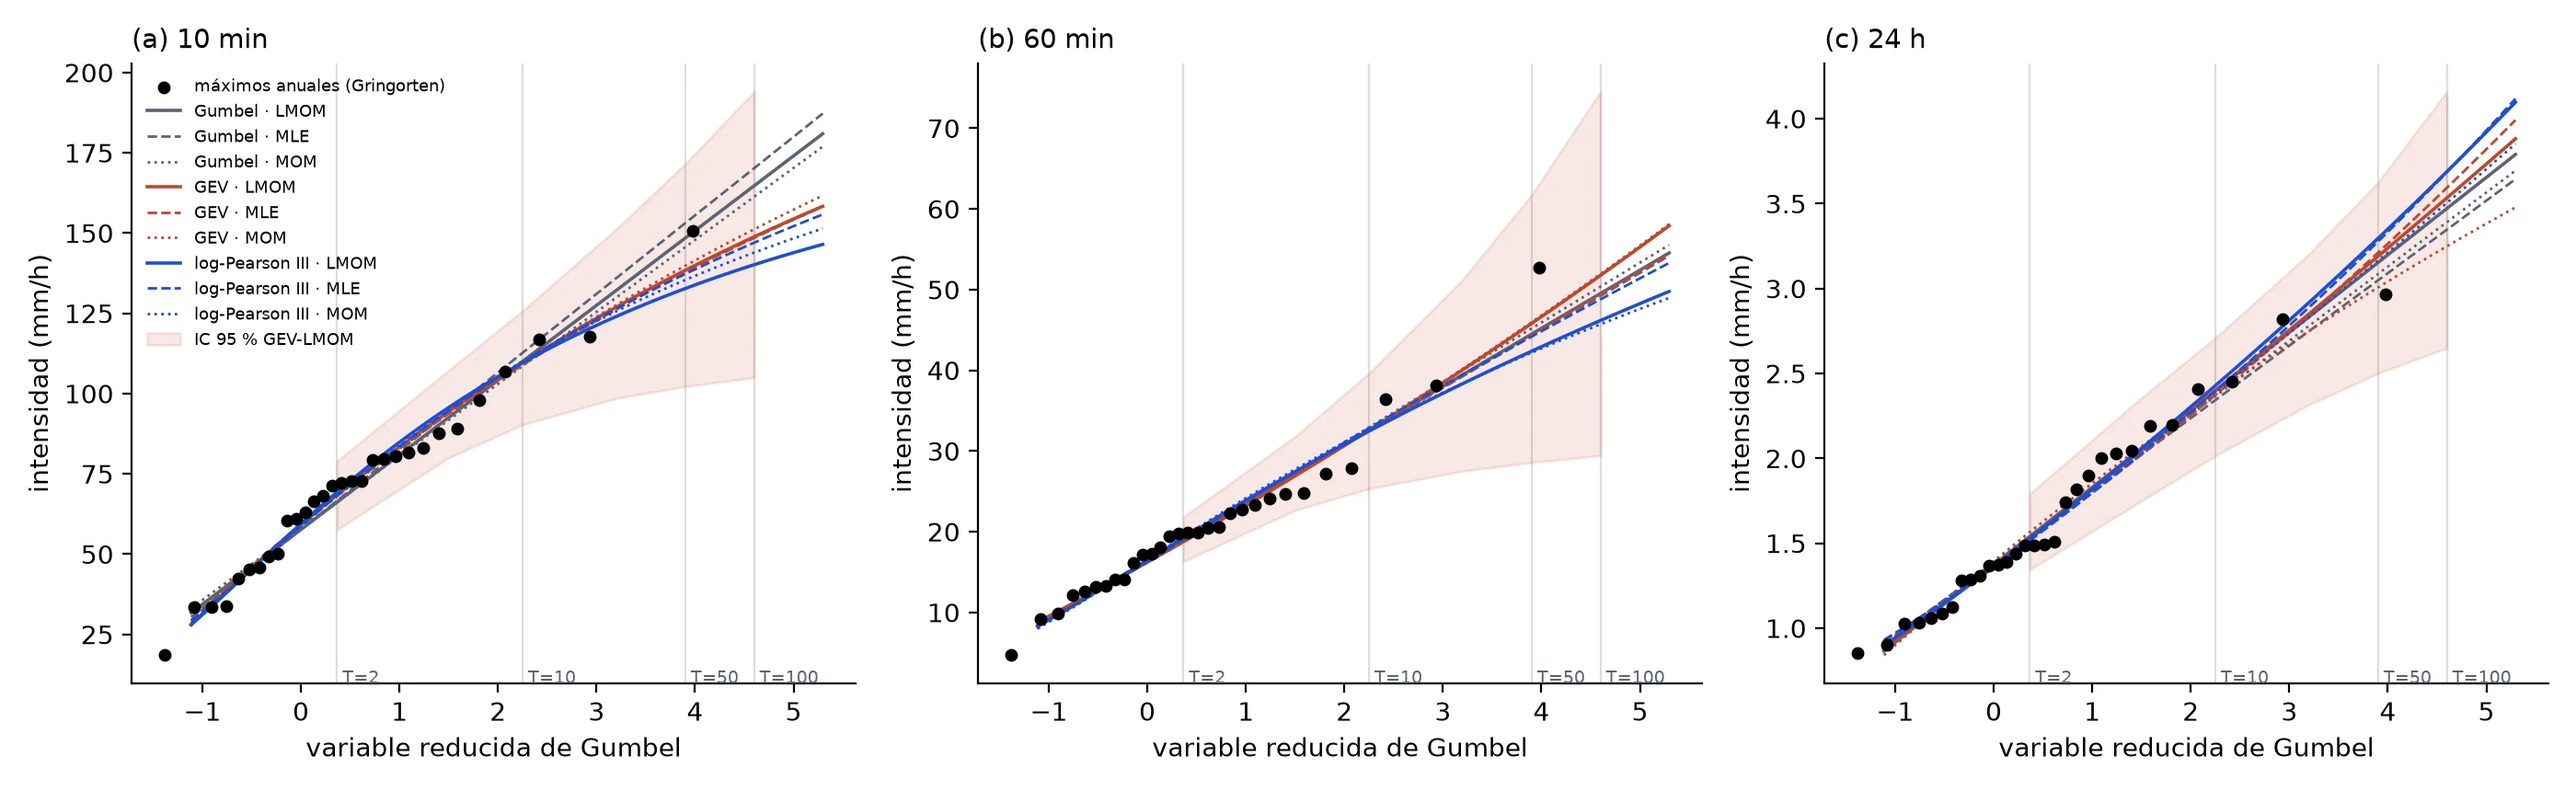
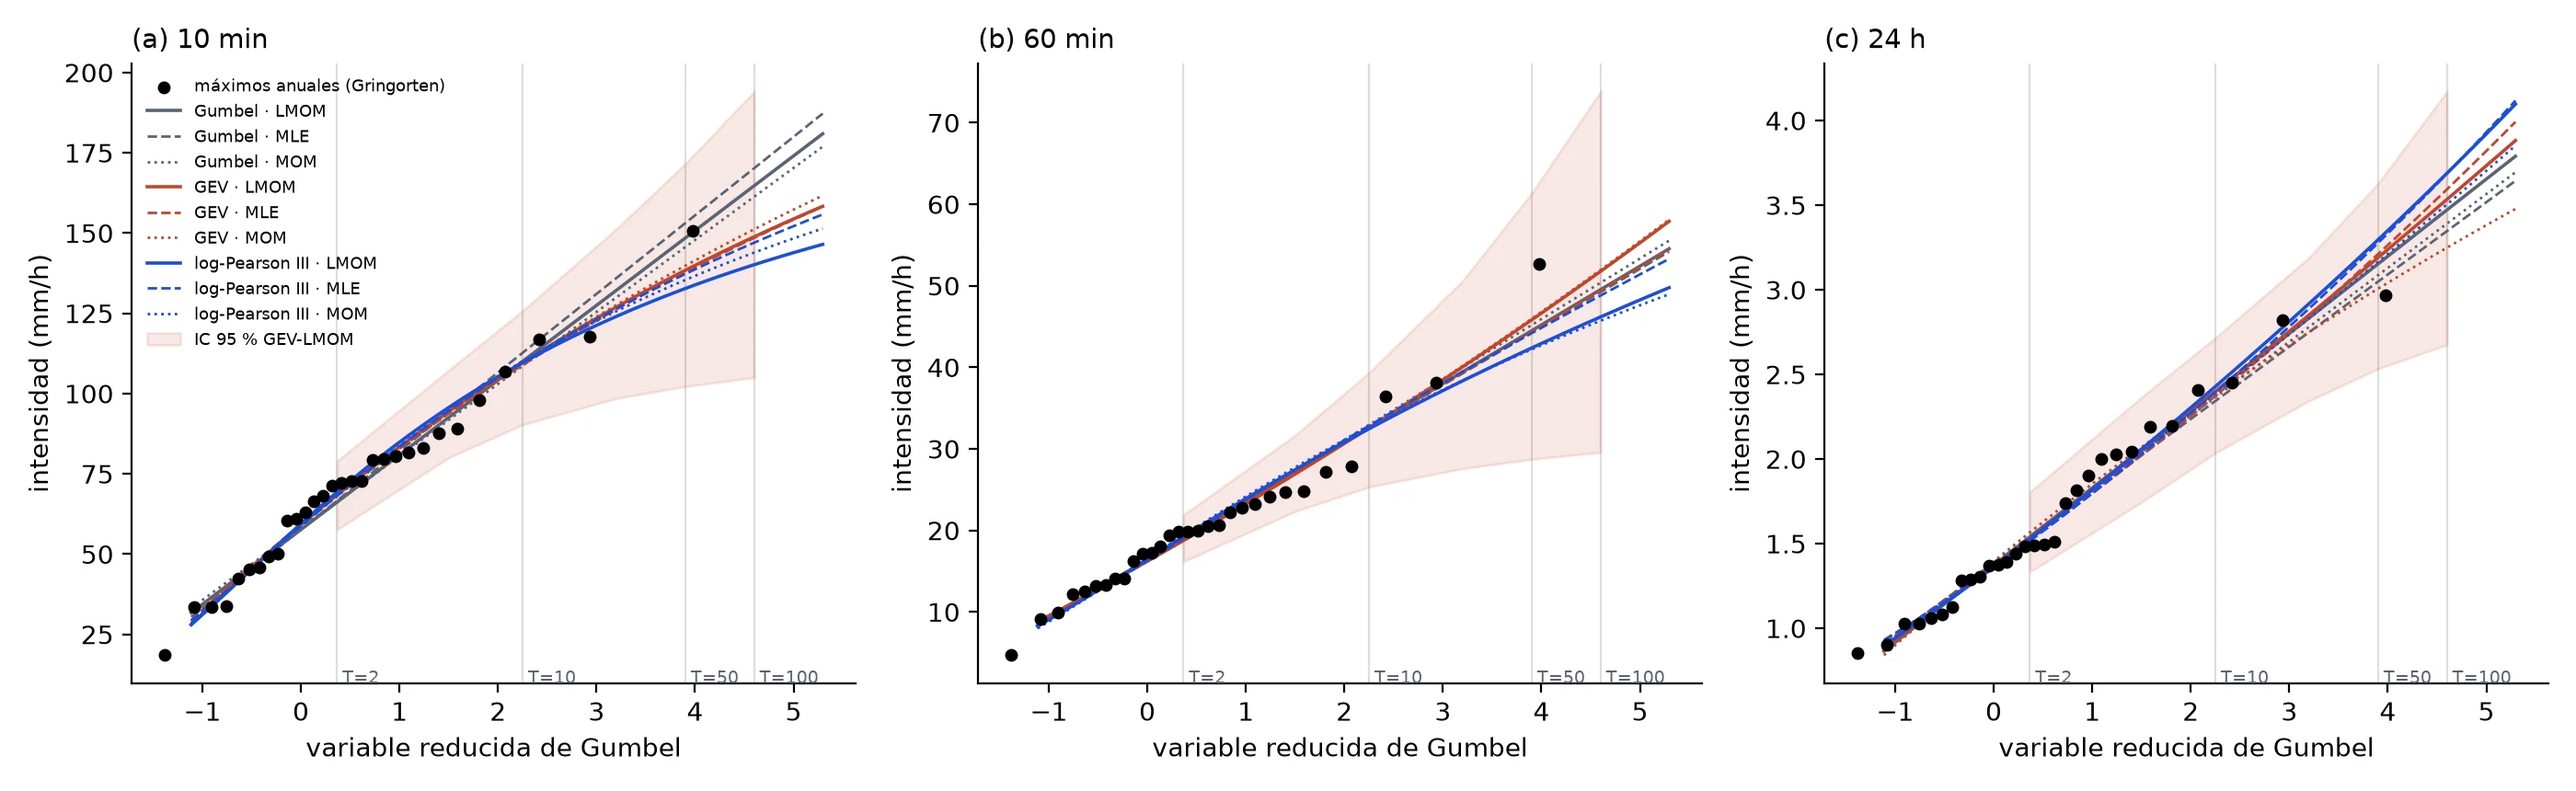
Punto 2.4 problema A: microcuenca, metodo racional, Monte Carlo, escala y bono 2.5.1

diff --git a/index.html b/index.html
@@ -772,8 +772,8 @@ promedio. (3) Los L-momentos son estables con 30 datos; la máxima verosimilitud
 asimetría muestral. <b>Contraste:</b> el promedio del diagrama (τ₃ = 0,21, τ₄ = 0,20) cae sobre la logística generalizada (GLO), pero la variabilidad
 muestral de τ₄ con 30 años es ±0,08, el doble de la distancia entre GEV y GLO: los datos no las distinguen. La GLO da cuantiles de 100 años
 2–7 % mayores; se usará en la sensibilidad del diseño.</div></div>
-<div><p><b>Bootstrap (2 000 remuestreos):</b> el IC 95 % del cuantil de 60 min va de 30 % del valor en T = 2 a 87 % en T = 100
-(29–75 mm/h). Más allá de T ≈ 2N = 60 años el resultado depende casi por completo de la cola supuesta.</p>
+<div><p><b>Bootstrap (2 000 remuestreos):</b> el IC 95 % del cuantil de 60 min va de 31 % del valor en T = 2 a 85 % en T = 100
+(30–74 mm/h). Más allá de T ≈ 2N = 60 años el resultado depende casi por completo de la cola supuesta.</p>
 <p><b>Estacionariedad:</b> ninguna duración tiene tendencia significativa (Mann–Kendall con Hamed–Rao, p ≥ 0,15; Sen +2 a +8 % por década) ni diferencias entre las tres
 épocas de instrumento (Kruskal–Wallis, p ≥ 0,50). Se asume estacionariedad, con la cautela de que las pendientes son positivas.</p>
 <p><b>Sensibilidad (GEV-LMOM, T = 100):</b> el criterio de años válidos cambia el cuantil &lt; 3 % y quitar 2021 &lt; 3 %. En cambio, si en 2014 vale el pluviómetro diario
@@ -792,20 +792,70 @@ veces la oficial, siempre dentro de su incertidumbre (±18–27 %). Somos 3–11
 (1993–2025 frente a 1951–2020), la corrección de Weiss que aplicamos, la regionalización de KOSTRA, que suaviza entre estaciones, y el caso dudoso de 2014 en 24 h.
 KOSTRA da valores puntuales regionalizados, no promedios de área: la razón entre las dos <b>no</b> es un factor de reducción areal.</p>
 <p><b>Tormenta del 9 de junio de 2018:</b> 22 mm en 10 min, 38,5 mm en 20 min y 51,6 mm en 1 h. Con nuestra IDF tiene T ≈ 114 años en 10 min,
-≈ 191 en 20 min y ≈ 111 en 1 h, pero solo ≈ 7 años en 24 h. El IC 95 % va de ≈ 28 años a «nunca»
+≈ 191 en 20 min y ≈ 111 en 1 h, pero solo ≈ 7 años en 24 h. El IC 95 % va de ≈ 29 años a «nunca»
 (algunas réplicas tienen una cola acotada por debajo del evento): con 30 años de datos, un evento de ese tamaño solo puede decirse «raro, probablemente más de 25 años». KOSTRA lo
-pone por encima de 100 años entre 20 y 60 min.</p></div></div></div><div class='callout violet'><b>Estabilidad e inversión.</b> La tormenta del 9 de junio de 2018 fue convectiva: 51,6 mm en una hora (52,6 mm en todo el evento) y casi nada en Lindenberg (5,7 mm) ni en Doberlug-Kirchhain (2,2 mm), a 50 km. Una celda convectiva crece cuando la atmósfera es inestable en toda la troposfera (aire cálido y húmedo abajo, frío arriba) y descarga en minutos sobre pocos kilómetros cuadrados: por eso sus periodos de retorno son altos en 10–60 min y bajos en 24 h, y por eso la reducción areal importa tanto en duraciones cortas.</div><p class='note'><b>Fuentes:</b> guía 2.3; Koutsoyiannis et al. (1998); KOSTRA-DWD-2020 (Deutscher Wetterdienst, datos abiertos, celda 121203); Svensson y Jones (2010) para la reducción areal.</p></section><section class='slide' id='estado' data-g='d' data-sec='3 · Estado'><p class='kicker k-data'>Estado del trabajo</p><h2>Qué está hecho y qué sigue</h2>
+pone por encima de 100 años entre 20 y 60 min.</p></div></div></div><div class='callout violet'><b>Estabilidad e inversión.</b> La tormenta del 9 de junio de 2018 fue convectiva: 51,6 mm en una hora (52,6 mm en todo el evento) y casi nada en Lindenberg (5,7 mm) ni en Doberlug-Kirchhain (2,2 mm), a 50 km. Una celda convectiva crece cuando la atmósfera es inestable en toda la troposfera (aire cálido y húmedo abajo, frío arriba) y descarga en minutos sobre pocos kilómetros cuadrados: por eso sus periodos de retorno son altos en 10–60 min y bajos en 24 h, y por eso la reducción areal importa tanto en duraciones cortas.</div><p class='note'><b>Fuentes:</b> guía 2.3; Koutsoyiannis et al. (1998); KOSTRA-DWD-2020 (Deutscher Wetterdienst, datos abiertos, celda 121203); Svensson y Jones (2010) para la reducción areal.</p></section><section class='slide' id='p24-microcuenca' data-g='a' data-sec='2 · Diseño hidrológico'><p class='kicker k-arch'>Punto 2 · 2.4 · Problema A</p><h2>La microcuenca: una zanja de prados a 7 km del pluviómetro</h2>
+<div class='stackfig'><div class='panel'><a href='img/mapas_microcuenca.webp' target='_blank' rel='noopener' title='Abrir en tamaño completo'><img class='figimg' src='img/mapas_microcuenca.webp' width='3100' height='1080' alt='Mapas de la microcuenca' loading='lazy'></a></div>
+<div class='txtcols'><div>
+<div class='tw'><table class='tb'><thead><tr><th></th><th>Valor</th><th>Comentario</th></tr></thead><tbody><tr><td>Área</td><td>0,44 km²</td><td>dentro de 0,1–5 km² (guía)</td></tr><tr><td>Cierre</td><td>14,2950° E, 51,8391° N</td><td>a 7,2 km del pluviómetro 00880</td></tr><tr><td>Cauce principal</td><td>1 853 m</td><td>pendiente 0,07 % (10–85: 0,03 %)</td></tr><tr><td>Relieve</td><td>2,1 m (57,2–58,6 m)</td><td>pendiente media 1,05 %</td></tr><tr><td>Cobertura</td><td>pastizal 83 %, bosque 17 %</td><td>sin zonas urbanas</td></tr></tbody></table></div>
+<p class='note'><b>Por qué no el Spree:</b> hasta Cottbus drena más de 2 000 km² con embalses (Spremberg) y una regulación fuerte: el método racional supone lluvia uniforme
+en toda la cuenca durante tc, y eso solo vale en cuencas pequeñas.</p></div>
+<div><p><b>Por qué esta microcuenca sirve para la tarea:</b></p><ul class='pts'>
+<li><b>Tamaño:</b> 0,44 km², en el rango del método racional; una celda convectiva (5–10 km) la cubre entera, así que la lluvia del pluviómetro se aplica casi sin reducción (FRA ≈ 0,98).</li>
+<li><b>Es una cuenca real:</b> se delimitó en el modelo de terreno lidar DGM1, que mide el suelo. El primer intento con Copernicus (un modelo de superficie)
+confundía el dosel del bosque con relieve y daba cuencas falsas.</li>
+<li><b>Misma lluvia:</b> a 7,2 km del pluviómetro, en la misma llanura, sin efecto orográfico. La IDF de 2.3 se puede usar directamente.</li>
+<li><b>Hay dónde poner una alcantarilla:</b> la zanja de salida cruza un camino rural antes de entrar a la red de drenaje del Spree.</li>
+<li><b>La cobertura se conoce</b> (WorldCover), así que C puede estimarse con tablas.</li></ul>
+<p><b>Limitaciones:</b> el terreno es casi plano (2,1 m de relieve), con zanjas artificiales que la D8 sigue solo en parte; tc es incierto (ver la siguiente diapositiva). No hay
+vías en el mapa porque los servidores de OpenStreetMap no respondieron.</p></div></div></div><div class='callout violet'><b>Estabilidad e inversión.</b> La microcuenca y el pluviómetro están en la misma llanura, a 12 m de diferencia de altura y sin relieve entre ellos: comparten la masa de aire, la capa límite y su ciclo diario. Las lluvias que dimensionan una alcantarilla aquí son tormentas convectivas de verano: el suelo calentado vuelve inestable la capa límite por la tarde y las celdas se forman sin necesidad de montaña. Por la noche la inversión de radiación deja niebla en los prados, pero no da lluvia de diseño. En el Chicama, en cambio, la inversión de subsidencia del Pacífico y el relieve hacen que la lluvia cambie mucho con la altura (1.5.a): allí un pluviómetro a 7 km y 1 000 m más abajo no serviría.</div><p class='note'><b>Fuentes:</b> guía 2.4 (microcuenca de 0,1–5 km²); DGM1 de Brandeburgo (LGB, licencia dl-de/by-2-0), remuestreado a 5 m; ESA WorldCover 2021 (10 m); Copernicus GLO-30; dirección de flujo D8 con pysheds (O'Callaghan y Mark, 1984). Script <code>codigo/punto2/05b_microcuenca_dgm.py</code> y <code>06_mapas_microcuenca.py</code>.</p></section><section class='slide' id='p24-diseno' data-g='a' data-sec='2 · Diseño hidrológico'><p class='kicker k-arch'>Punto 2 · 2.4 · Problema A</p><h2>El método racional: un tubo de 1,00 m, y la incertidumbre que más pesa es el tc</h2>
+<div class='stackfig'><div class='panel'><a href='img/problemaA.webp' target='_blank' rel='noopener' title='Abrir en tamaño completo'><img class='figimg' src='img/problemaA.webp' width='2600' height='920' alt='Tiempo de concentración y sensibilidad del diámetro' loading='lazy'></a></div>
+<div class='txtcols'><div>
+<div class='eq'>Q<sub>p</sub> = C · i(t<sub>c</sub>, T) · A · FRA / 3,6 = 0,335 · 26,6 · 0,437 · 0,976 / 3,6 = <b>1,05 m³/s</b></div>
+<p><b>Periodo de retorno por riesgo:</b> vida útil n = 30 años y riesgo aceptado R = 70 % (consecuencias bajas: un camino rural y prados) dan
+T = 1/[1 − (1 − R)<sup>1/n</sup>] = 25,4 → <b>T = 25 años</b>, como recomienda Chow para vías secundarias (10–25 años). El riesgo sigue siendo alto: 71 % de que se
+supere al menos una vez en 30 años.</p>
+<p><b>tc:</b> Kirpich 102 min (elegido: el más usado para cuencas pequeñas con cauce definido), Témez 113, velocidad en la zanja 88 (V = 0,35 m/s) y retardo del SCS 258 min
+(con CN = 55; sobreestima en cuencas muy planas). <b>C</b> = 0,335, ponderado por área y creciente con T.</p>
+<p><b>Diámetro:</b> Manning a tubo lleno, S₀ = 0,5 %, da D = 0,84 m → <b>DN 1,00 m</b> (capacidad 1,70 m³/s, factor de seguridad 1,61).</p></div>
+<div><p><b>¿Qué incertidumbre pesa más?</b> (rango del diámetro calculado, frente al diseño)</p>
+<div class='tw'><table class='tb'><thead><tr><th>Fuente</th><th>D calculado</th><th>Rango</th></tr></thead><tbody><tr><td>tc (4 fórmulas)</td><td>0,63–0,87 m</td><td>29 %</td></tr><tr><td>IC 95 % de la IDF</td><td>0,71–0,91 m</td><td>25 %</td></tr><tr><td>C ± 20 %</td><td>0,77–0,90 m</td><td>15 %</td></tr><tr><td>distribución</td><td>0,82–0,83 m</td><td>1 %</td></tr></tbody></table></div>
+<p><b>Lectura:</b> la fórmula de tc mueve más el resultado que la propia lluvia. En un terreno de 1,4 m de desnivel en 1,85 km, el agua corre despacio y cada fórmula la
+imagina distinta. Le sigue el intervalo de confianza de la IDF (30 años de datos) y después C. La elección de la distribución casi no cambia nada (1 %): a T = 25 todas
+interpolan, no extrapolan (2.2). Solo el retardo del SCS, C − 20 % y el límite inferior de la IDF bajarían a DN 0,80 m.</p></div></div></div><div class='callout violet'><b>Estabilidad e inversión.</b> La intensidad de diseño (≈ 27 mm/h durante 1,7 h) es la de una tormenta convectiva organizada de verano: necesita una atmósfera inestable en toda la troposfera. Un chubasco aislado de 10–20 min es más intenso, pero aquí no llega a llenar el tubo porque el agua tarda ≈ 100 min en recorrer la cuenca. Si la capa límite está estable (inversión nocturna o invierno), la lluvia es estratiforme y débil: no dimensiona nada. Un tc largo hace que la alcantarilla «vea» tormentas largas, y por eso el tc pesa tanto en el diámetro.</div><p class='note'><b>Fuentes:</b> guía 2.4; Chow et al. (1988), §15.1 y tabla 15.1.1 (C para zonas planas, según T), tabla 13.1.1 (periodos de diseño); Kirpich (1940); Témez (1978); NRCS (1986), TR-55; NERC (1975), Flood Studies Report (reducción areal); Manning a tubo lleno, concreto n = 0,013. Script <code>codigo/punto2/07_problema_A.py</code>.</p></section><section class='slide' id='p24-riesgo' data-g='a' data-sec='2 · Diseño hidrológico'><p class='kicker k-arch'>Punto 2 · 2.4 · Problema A</p><h2>Riesgo efectivo y escala: el tubo real falla mucho menos que lo nominal</h2>
+<div class='two even'><div class='panel'><a href='img/problemaA_mc.webp' target='_blank' rel='noopener' title='Abrir en tamaño completo'><img class='figimg' src='img/problemaA_mc.webp' width='1300' height='800' alt='Monte Carlo de la probabilidad de falla' loading='lazy'></a>
+<p class='note'>Cada iteración toma una réplica bootstrap de la IDF, un tc (triangular entre 88 y 258 min, moda en Kirpich), C ± 20 %, n de 0,011 a 0,015 y S₀ de 0,4 a
+0,6 %, y calcula la probabilidad anual de que la lluvia supere la capacidad del DN 1,00 m.</p></div>
+<div><p><b>Resultado:</b> probabilidad anual efectiva de falla 0,0036 (T efectivo ≈ 275 años) frente a la nominal 0,04; riesgo en 30 años
+<b>10 %</b> frente al 71 % nominal. Entre iteraciones va de 0,000 a 0,015 (percentiles 5–95).</p>
+<p><b>¿Por qué tan distinto?</b> No es que la incertidumbre ayude: es el <b>salto al diámetro comercial</b>. El cálculo pide 0,84 m y se instala 1,00 m, que con el valor
+central ya alcanza hasta T ≈ 100 años (D = 0,99 m). La incertidumbre ensancha la distribución (8 % de las iteraciones casi nunca se llenan; el 5 % peor falla una
+vez cada ≈ 70 años), pero el promedio queda lejos del nominal. Conclusión: hay que reportar el riesgo del tubo instalado, no el del cálculo.</p>
+<p><b>Escala (2.4.8):</b></p>
+<div class='tw'><table class='tb'><thead><tr><th>Cuenca</th><th>Área</th><th>tc</th><th>FRA 1 h</th><th>FRA en tc</th></tr></thead><tbody><tr><td>microcuenca Cottbus</td><td>0,44 km²</td><td>102 min</td><td>0,97</td><td>0,98</td></tr><tr><td>Chicama hasta El Tambo</td><td>2 170 km²</td><td>383 min</td><td>0,67</td><td>0,83</td></tr></tbody></table></div>
+<p>En el Chicama, tc ≈ 6,4 h y la lluvia media de una hora sobre la cuenca es 33 % menor que la del pluviómetro. Además, el caudal depende de la humedad previa del suelo, del
+almacenamiento en la cuenca y de que la lluvia caiga solo en la parte alta (1.3). Un C constante no representa nada de eso.</p></div></div><div class='callout violet'><b>Estabilidad e inversión.</b> En el Chicama la lluvia la organiza el relieve: el aire del Pacífico queda bajo la inversión de subsidencia y no sube; la lluvia llega del este en la tarde, con convección forzada por la ladera, y se concentra en la parte alta. Ninguna tormenta cubre 2 170 km² a la vez con la misma intensidad. Por eso la reducción areal cae a 0,67 en una hora y el racional deja de valer: allí se necesita un hidrograma unitario o un modelo distribuido, con lluvia distinta en cada banda de altura.</div><p class='note'><b>Fuentes:</b> guía 2.4.6–2.4.8; Monte Carlo con las 2 000 réplicas bootstrap de la GEV (remuestreo de años completos, igual para todas las duraciones); Leclerc y Schaake (1972) para la reducción areal de cuencas grandes; Tarea 1 (área y cauce del Chicama).</p></section><section class='slide' id='p25-bono' data-g='a' data-sec='2 · Diseño hidrológico'><p class='kicker k-arch'>Punto 2 · 2.5.1 · Bono</p><h2>Diseño de mínimo costo esperado: el óptimo es plano y cae más allá de T = 100</h2>
+<div class='two even'><div class='panel'><a href='img/bono_costo.webp' target='_blank' rel='noopener' title='Abrir en tamaño completo'><img class='figimg' src='img/bono_costo.webp' width='1400' height='920' alt='Costo anual esperado frente al periodo de retorno' loading='lazy'></a></div>
+<div><div class='eq'>costo anual(T) = C<sub>obra</sub>(T) · FRC(r, n) + ∫<sub>0</sub><sup>1/T</sup> daño(Q(p)) dp</div>
+<p><b>Supuestos:</b> la obra cuesta (Q<sub>T</sub>/Q<sub>2</sub>)<sup>0,6</sup> veces C0 (economía de escala); el daño crece con el exceso de caudal hasta
+D<sub>máx</sub> = 20 C0; r = 6 %, n = 30 años. Sensibilidad: D<sub>máx</sub> × 0,5 y × 2, r = 3 % y 9 %.</p>
+<p><b>Resultado:</b> el mínimo está en T ≈ 500 años, pero la curva es muy plana: entre T = 200 y 1 000 el costo está a menos
+de 5 % del mínimo. Según los supuestos, el óptimo va de 200 a 750 años. Con T = 25 el costo esperado es 2,2 veces el mínimo: casi todo es daño esperado.</p>
+<p><b>¿Por qué tan alto?</b> El cuantil crece despacio con T (ξ ≈ 0, casi Gumbel) y el tubo cuesta poco más por ser más grande. Pasar de T = 25 a 100 no cambia el diámetro
+comercial (DN 1,00 m en ambos casos), así que la decisión real es entre DN 1,00 y 1,20 m.</p>
+<div class='callout teal'><b>Cautela:</b> todo el tramo del óptimo está en zona de extrapolación (T &gt; 2N = 60 años), donde la IDF depende de la cola supuesta, y los costos son
+supuestos. La conclusión robusta no es «T = 500». Es esta: con estos órdenes de magnitud, un T de 25 años queda corto en costo, y el DN 1,00 m (que ya cubre T ≈ 100) es una
+buena elección.</div></div></div><div class='callout violet'><b>Estabilidad e inversión.</b> El daño esperado depende de la cola de la distribución de la lluvia: las crecientes que superan el tubo son tormentas convectivas raras, con inestabilidad muy profunda. Con 30 años de registro esa cola se conoce mal (2.2), y el mínimo del costo cae justo donde ya extrapolamos. Si el clima más cálido hace la atmósfera más inestable y húmeda (≈ 7 % más vapor por °C, Clausius–Clapeyron), la cola engorda y el T óptimo sube.</div><p class='note'><b>Fuentes:</b> guía 2.5.1; Chow et al. (1988), §13.3 (diseño por análisis de riesgo y costo esperado); factor de recuperación de capital con r y n = 30 años. Los costos son supuestos del grupo (en unidades del costo de la obra de T = 2, C0), no precios reales.</p></section><section class='slide' id='estado' data-g='d' data-sec='3 · Estado'><p class='kicker k-data'>Estado del trabajo</p><h2>Qué está hecho y qué sigue</h2>
 <div class='two even'><div class='stack'>
-<div class='card'><h4>Hecho <span class='tag done'>hecho</span></h4><p>Selección del sitio del punto 2; completitud de Cottbus; descarga y control de calidad de
-ERA5-Land; <b>apartados 1.1 a 1.5 completos</b> (ETo FAO-56 verificada y puesta a prueba, nueve métodos simples, sensibilidad; ET real
-por balance, con su incertidumbre, techo energético y productos).</p></div>
-<div class='card'><h4>Decisiones del grupo <span class='tag dec'>decisión del grupo</span></h4><p>Apartado 1.5: gradiente altitudinal (1.5.a) y niebla bajo la inversión (1.5.c);
-criterio de año válido en Cottbus; microcuenca del problema A; vida útil y riesgo aceptable de la obra.</p></div>
+<div class='card'><h4>Hecho <span class='tag done'>hecho</span></h4><p><b>Punto 1 completo de 1.1 a 1.5</b> (ETo FAO-56 verificada, nueve métodos, sensibilidad, ET real por balance,
+régimen y Budyko, tendencias, gradiente altitudinal y niebla). <b>Punto 2:</b> control de calidad, ajuste de extremos, IDF frente a KOSTRA, microcuenca,
+problema A con Monte Carlo y escala, bono 2.5.1.</p></div>
+<div class='card'><h4>Decisiones del grupo <span class='tag dec'>decisión del grupo</span></h4><p>Umbrales de régimen 0,75/0,40; ω como rango 1,6–1,8; GEV por L-momentos; regla de días imposibles;
+valores de C (verificar en la tabla 15.1.1 de Chow); T = 25 por riesgo (n = 30, R = 70 %); S₀ = 0,5 % y n = 0,013; CN = 55; costos del bono.</p></div>
 </div><div class='panel'><h3>Lo que sigue</h3><ul class='pts'>
-<li>Decidir con el grupo qué demanda se usa como referencia en 1.2–1.4: ERA5-Land (este trabajo) con su incertidumbre de −10 a −25 %.</li>
+<li>Problema B: tanque de detención con hidrogramas trapezoidales y bloques alternos (pico al inicio, centro y final), tránsito de piscina nivelada.</li>
 <li>Síntesis del punto 1 y esquema conceptual actualizado; 1.6 opcional (+0,2).</li>
-<li>Punto 2: máximos anuales de 10 min a 24 h en Cottbus con ventanas móviles (2.2.1).</li>
-<li>Punto 2: máximos anuales de 10 min a 24 h en Cottbus con ventanas móviles (2.2.1).</li>
+<li>Informe PDF, presentación PDF, README y ZIP con la estructura de la guía (sin credenciales ni bases completas).</li>
 </ul></div></div></section>
 </main>
 <footer class="nav-bar"><button class="nav" id="prev" type="button" aria-label="Diapositiva anterior">← <span class="navlbl">Anterior</span></button>
